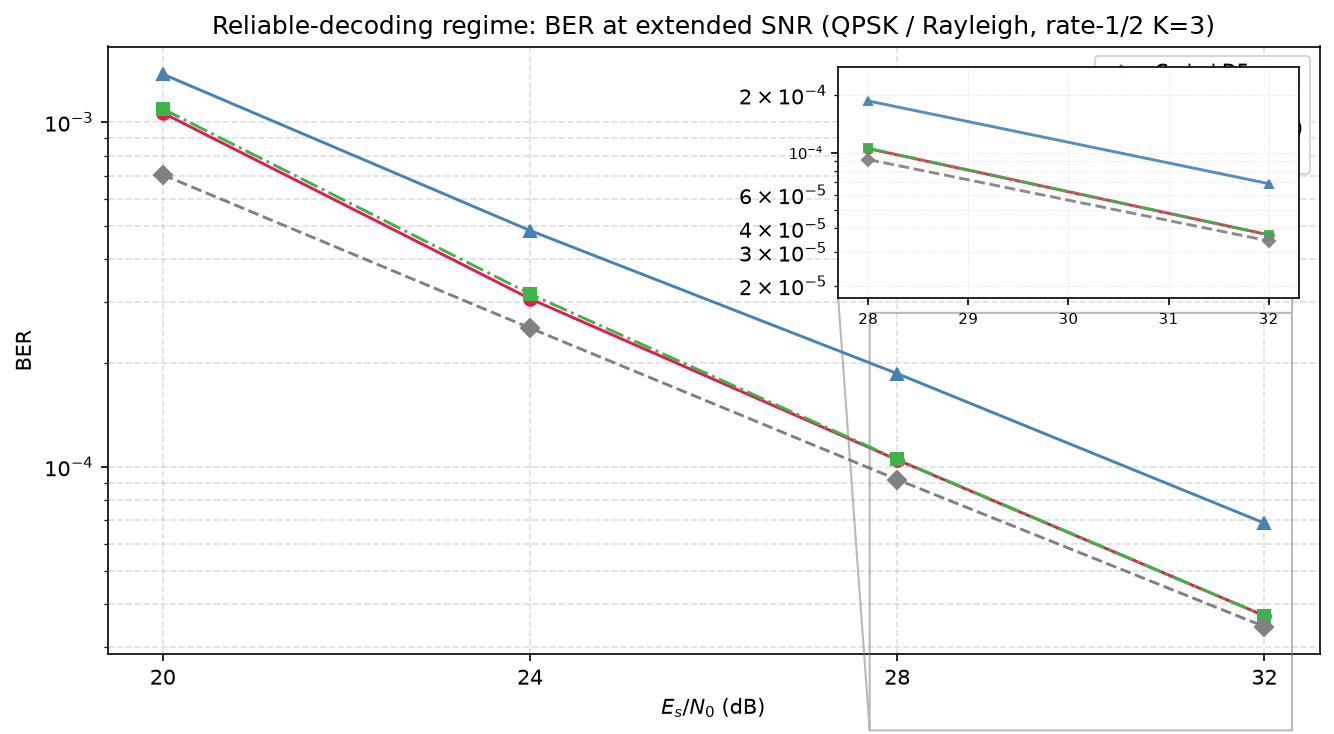
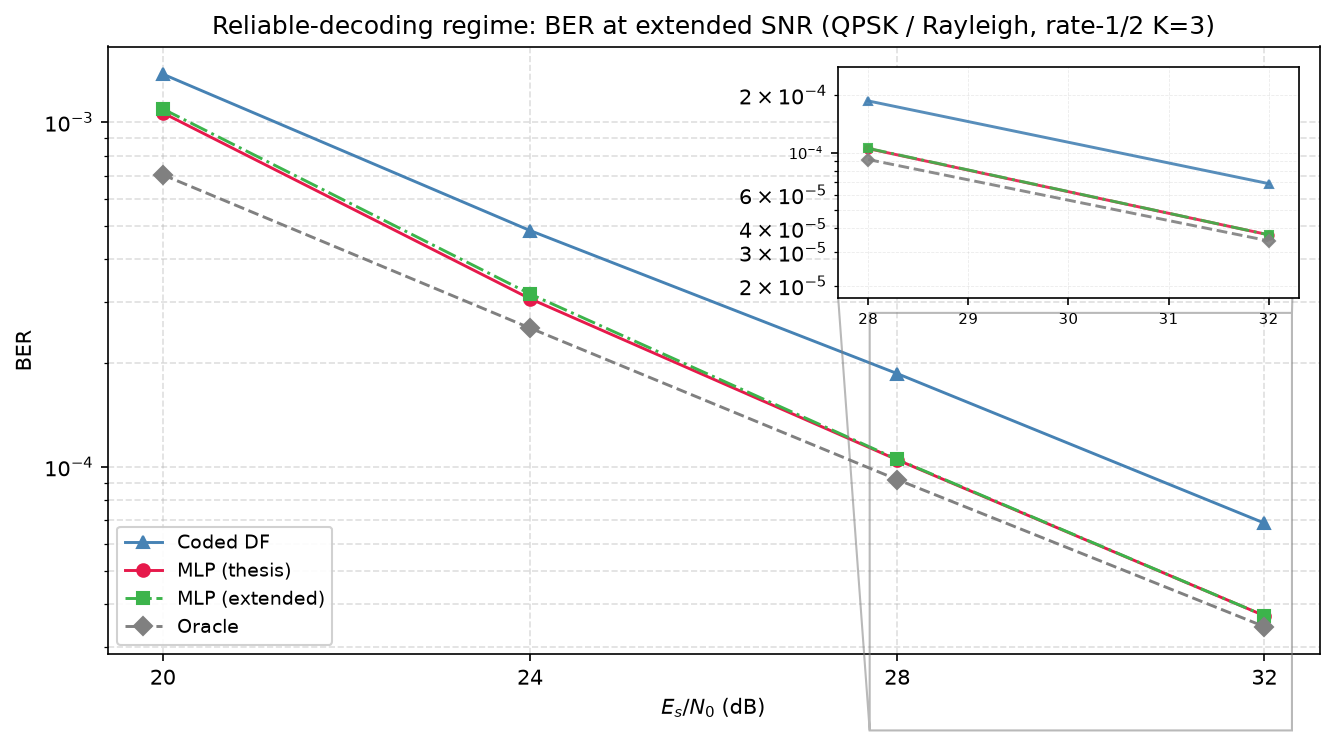
Fix Figure 5.4's hidden legend
The legend on results/coded_reliable_regime.png (Figure 5.4, "Reliable-decoding
regime: BER at extended SNR") was drawn behind the zoom inset, leaving only a
sliver of the "Coded DF" entry visible and the other three unreadable.

Cause: ax.legend() was called with the default loc="best". The curves fall
left-to-right, so matplotlib picks the upper right, and the zoom inset is added
a few lines later at loc="upper right" -- matplotlib places the legend before the
inset exists, so "best" cannot see the collision coming. Pinned to lower left,
which is the empty region under the curves on this figure, with a comment saying
why it must not go back to "best".

Audited the other four figures in gen_missing_figures.py: fig_3k_budget,
fig_coded_df and fig_equal_throughput also use loc="best", but their insets sit
at lower left, so "best" resolves to the upper right and there is no overlap.
Checked each rendered PNG rather than reasoning about it. fig_16qam_4vs16 has no
inset. Figure 5.4 was the only one affected.

No data changed: results/coded_reliable_regime.json is untouched and the plotted
curves are identical. verify_thesis_tables.py still reports 526 cells and 0
inconsistencies.

Rebuilt with latexmk -xelatex: no undefined references, 145 pages, countable 130.
Regenerated thesis_preview.pdf and both Overleaf bundles.

Claude-Session: https://claude.ai/code/session_01Q4zck1KRs5tPVH5d6PYCox

Changed region(s): [[0.0922, 0.7193, 0.2459, 0.8692], [0.8606, 0.0599, 0.9835, 0.0899]]

diff --git a/gen_missing_figures.py b/gen_missing_figures.py
@@ -221,7 +221,11 @@ def fig_reliable_regime():
     ax.set_xlabel(r"$E_s/N_0$ (dB)")
     ax.set_ylabel("BER")
     ax.set_title("Reliable-decoding regime: BER at extended SNR (QPSK / Rayleigh, rate-1/2 K=3)")
-    ax.legend(fontsize=9)
+    # Pinned lower-left, not loc="best". The curves fall left-to-right, so "best"
+    # picks the upper right -- which is exactly where the zoom inset is added a few
+    # lines below, and matplotlib places the legend before the inset exists. The
+    # result was a legend hidden behind the inset with only one entry showing.
+    ax.legend(fontsize=9, loc="lower left", framealpha=0.9)
     ax.grid(True, which="both", ls="--", alpha=0.4)
     ax.set_xticks(snr)
 
